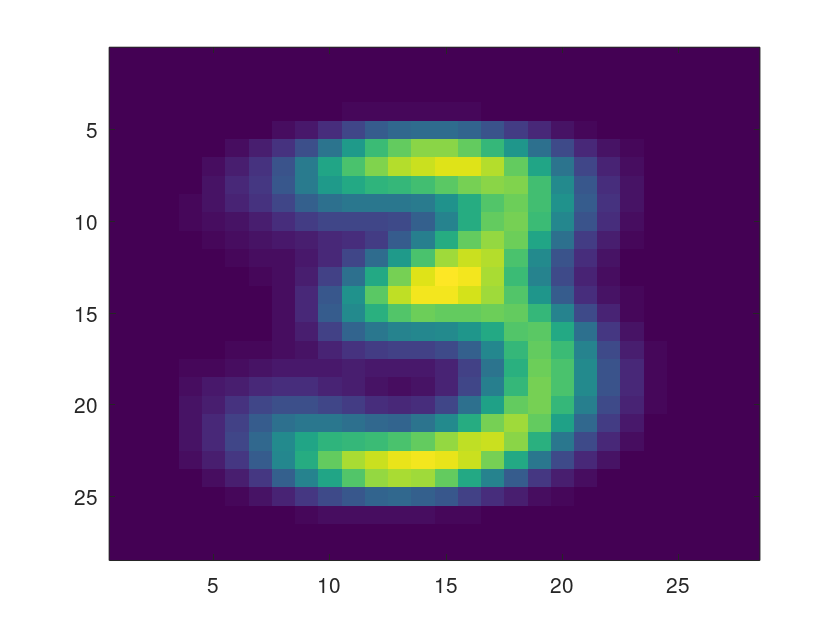
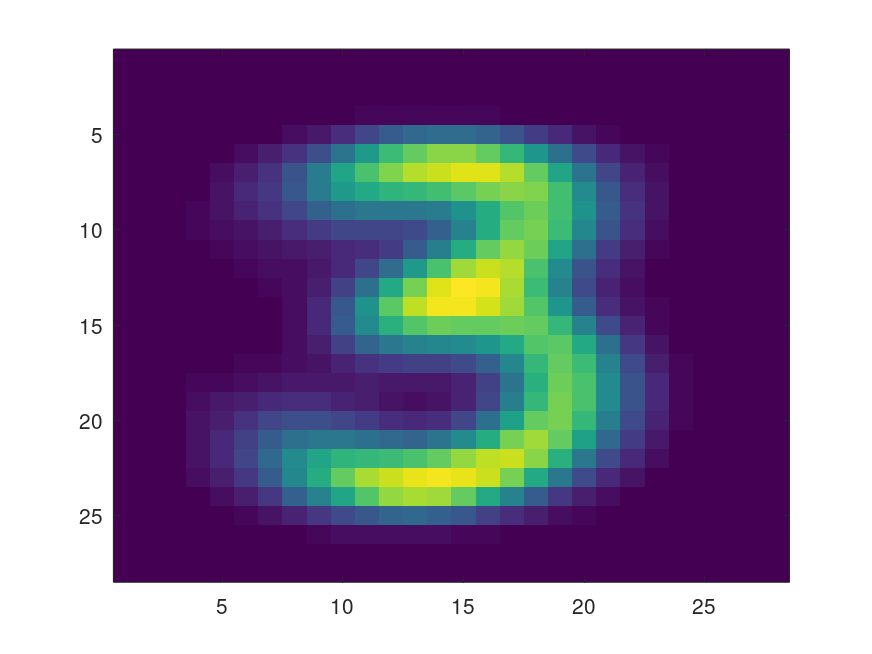
try and completely fail...

diff --git a/src/exercise_2/exercise_2.m b/src/exercise_2/exercise_2.m
@@ -18,9 +18,9 @@
 % Write a script show_mean_and_variance.m which plots the mean and variance of
 % each pixel as two new images (see lecture, Chapter 1).
 
-for digit = 0:9
-    showMeanAndVariance(digit);
-end
+% for digit = 0:9
+%     showMeanAndVariance(digit);
+% end
 
 % c.
 % Write a script show_pixel_distr.m which plots the gray value distribution of
@@ -38,16 +38,33 @@ showPixelDistr(3, mean_matrix, column, row);
 % digit at 10 different interesting pixel positions. The current pixel must be
 % adequately illustrated.
 
-% based on mean
-showPixelDistr(3, mean_matrix, 12, 15);
-showPixelDistr(3, mean_matrix, 1, 1);
-showPixelDistr(3, mean_matrix, 8, 7);
-showPixelDistr(3, mean_matrix, 23, 19);
-showPixelDistr(3, mean_matrix, 13, 15);
+% % based on mean
+% showPixelDistr(3, mean_matrix, 12, 15);
+% showPixelDistr(3, mean_matrix, 1, 1);
+% showPixelDistr(3, mean_matrix, 8, 7);
+% showPixelDistr(3, mean_matrix, 23, 19);
+% showPixelDistr(3, mean_matrix, 13, 15);
+%
+% % based on variance
+% showPixelDistr(3, variance_matrix, 23, 9);
+% showPixelDistr(3, variance_matrix, 1, 1);
+% showPixelDistr(3, variance_matrix, 8, 7);
+% showPixelDistr(3, variance_matrix, 23, 19);
+% showPixelDistr(3, variance_matrix, 13, 15);
 
-% based on variance
-showPixelDistr(3, variance_matrix, 23, 9);
-showPixelDistr(3, variance_matrix, 1, 1);
-showPixelDistr(3, variance_matrix, 8, 7);
-showPixelDistr(3, variance_matrix, 23, 19);
-showPixelDistr(3, variance_matrix, 13, 15);
+# e
+# Generate covariance images, showing the correlation (function corr) between a
+# given base pixel and all other pixels in the image. To this end write a
+# function show_correlation() which receives three parameters:
+# - digit to be analyzed
+# - x coordinate of base pixel
+# - y coordinate of base pixel
+#
+# As in exercise d. the function must also illustrate the considered pixel in an extra figure.
+#
+# Example:
+# Calling the function show_correlation (3, 23, 9) should generate an image
+# showing the analyzed pixel (hint: the origin is at the top left, x runs from
+# left to right and y from top to bottom)
+
+showCorrelation(3, 23, 9)

diff --git a/src/exercise_2/calculateMean.m b/src/exercise_2/calculateMean.m
@@ -1,0 +1,15 @@
+function mean_matrix = calculateMean(digit)
+    sum_matrix = zeros(28, 28);
+
+    load(["./assets/digit" int2str(digit) ".mat"]);
+
+    for i = 1:size(D,1)
+        matrix = D(i,:);
+        matrix = reshape(matrix, [28,28]);
+        matrix = matrix';
+
+        sum_matrix = sum_matrix + matrix;
+    end
+
+    mean_matrix = sum_matrix / size(D,1);
+end

diff --git a/src/exercise_2/showCorrelation.m b/src/exercise_2/showCorrelation.m
@@ -1,0 +1,10 @@
+function showCorrelation(digit, column, row)
+    image_dir = "./figures/correlation";
+
+    mean_matrix = calculateMean(digit);
+
+    imagesc(mean_matrix);
+    print([image_dir "/digit" int2str(digit) ".png"], "-dpng");
+
+    highlightPixel(digit, mean_matrix, row, column, image_dir)
+end
